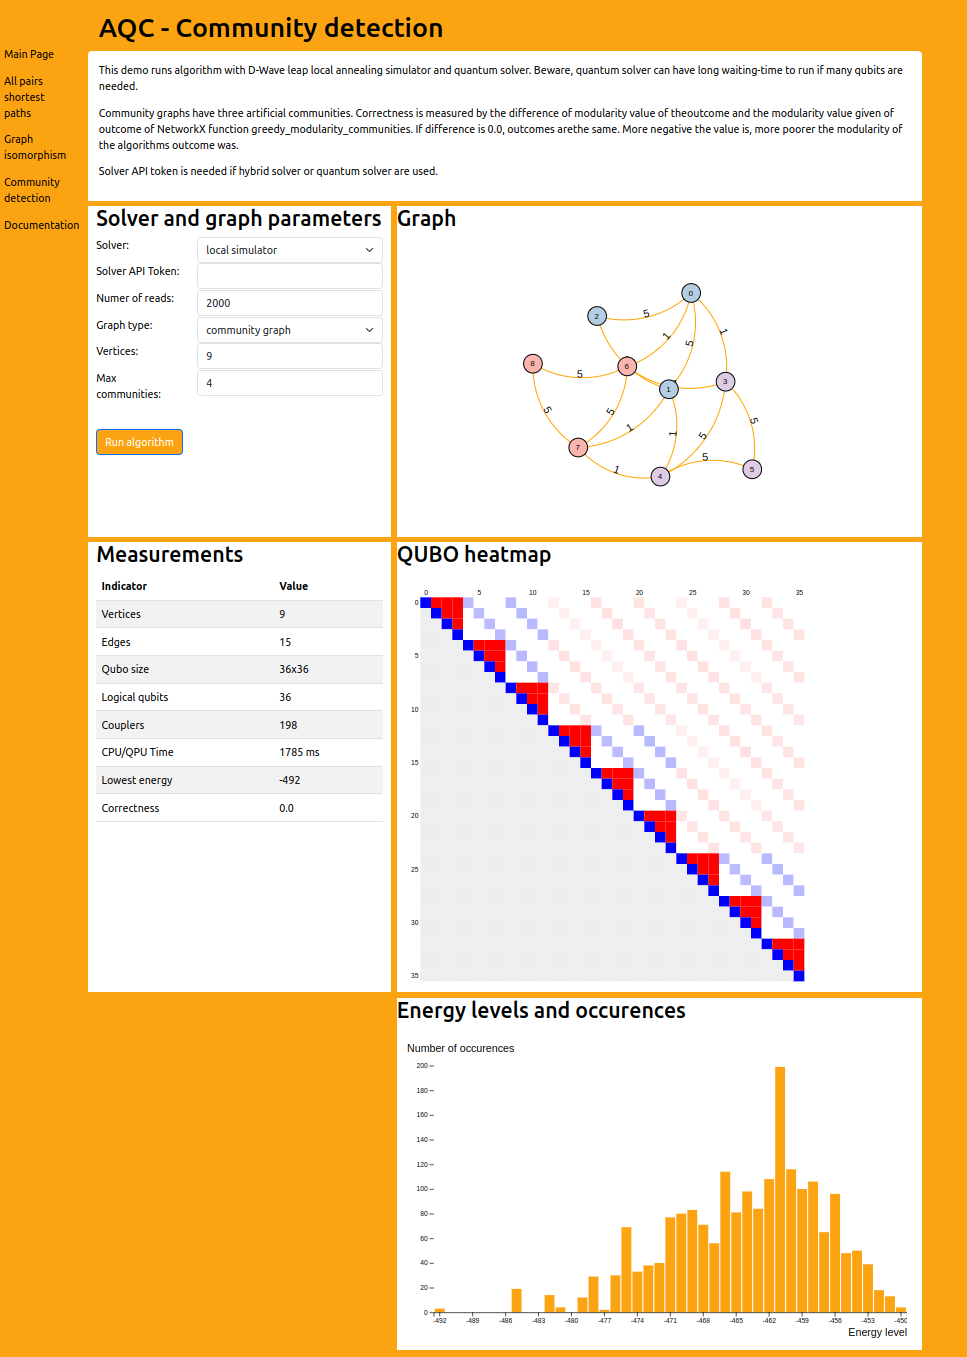
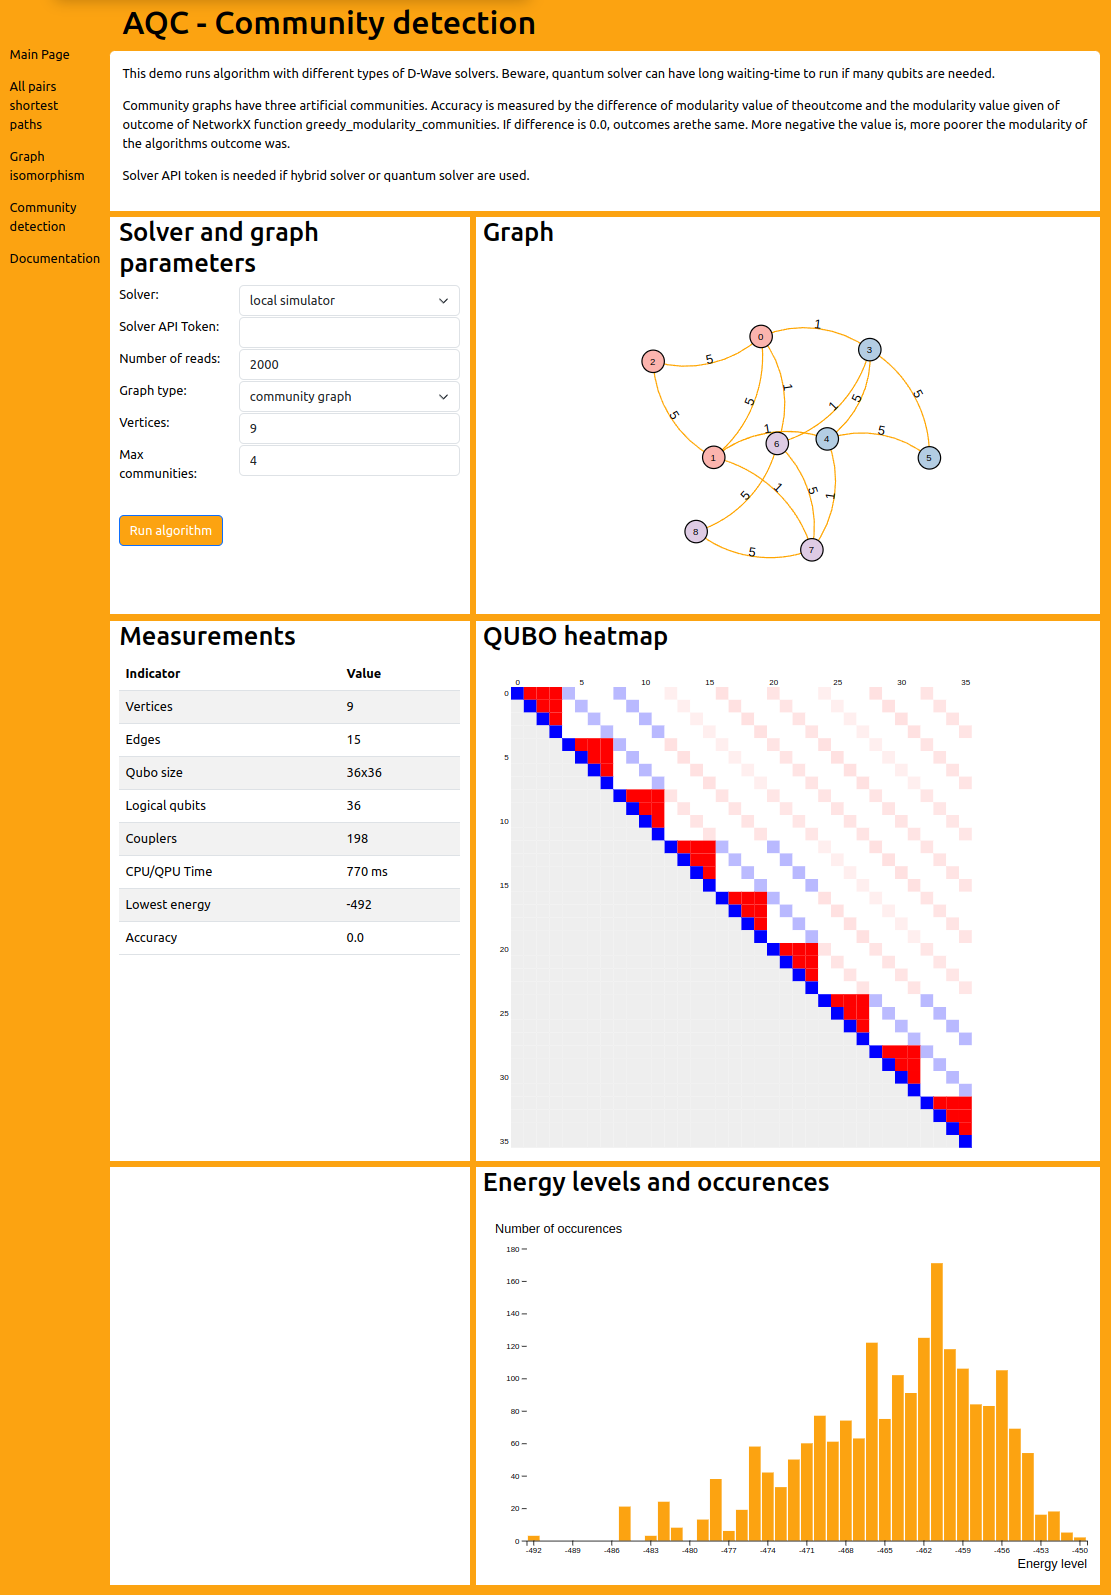
v0.8 - some UI fine tuning

diff --git a/templates/docs.html b/templates/docs.html
@@ -30,13 +30,13 @@
           </div>
           <div class="row m-0">
             <div class="col-sm-9 text-box rounded-top p-3">
-              <p>This demo presents algorithms for solving certain graph problems using quantum annealer computer. Each problems are converted to QUBO which is then solved with three different type of D-Wave solvers: local simulator, quantum solver and hybrid solver. </p>
+              <p>This demo presents algorithms for solving certain graph problems using quantum annealer computer. Each problem is converted to QUBO which is then solved with three different type of D-Wave solvers: local simulator, quantum solver and hybrid solver. </p>
               <h2>Graph problems</h2>
               <ul>
                 <li>In all pairs shortest path problem task is to find path with minimum sum of weights for every 
                   pair of vertices in graph.</li>
-                <li>Graph isomrphism problem answers to the qustion are two graphs isomorphic. Two graphs are isomorphic if they have same
-                  structure, so that vertices from one graph can be mapped to vertices of the other graph so that
+                <li>Graph isomorphism problem answers to the question are two graphs isomorphic. Two graphs are isomorphic if they have same
+                  structure, meaning that vertices from one graph can be mapped to vertices of the other graph so that
                   vertices have the same connectivity.</li>
                   <li>Community detection algorithm identifies communities from graphs, so that edges between vertices in the same community would be maximised and edges between vertices in different communities would be minimised.</li>
               </ul>
@@ -44,55 +44,43 @@
               <p>Performance can be measured with variable types of graphs:</p>
               <ul>
                 <li>
-                  Path graph: graph that can be drawn so that all of its
-                  vertices and edges lie on a single straight line
+                  Path graph: a graph that can be drawn so that all of its vertices and edges lie on a single straight line.
                 </li>
                 <li>
-                  Star graph: graph that have n-1 edges from single vertex to
-                  all other vertices/li>
+                  Star graph: a graph that has n-1 edges from a single vertex to all other vertices.
                 </li>
                 <li>
-                  Cycle graph: graph in which all vertices form single cycle.
+                  Cycle graph: a graph in which all vertices and edges form a single cycle.
                 </li>
-                <li>Complete graph: graph having all possible edges</li>
+                <li>Complete graph: a graph having all possible edges.</li>
                 <li>
-                  Tree graph: graph in which any two vertices are connected by
-                  exactly one path (here balanced binary tree is used).
-                </li>
-                <li>
-                  Graph with single cycle: graph in which part of the vertices
-                  and edges form a single cycle (here balanced binary tree with
-                  an edge from last leaf to the index vertex is used).
+                  Tree graph: a graph in which any two vertices are connected by exactly one path (here balanced binary tree is used).
                 </li>
                 <li>
-                  Graph with multiple cycles: graph having multiple cycles (here
-                  balanced binary tree with with edges from every second leaf to
-                  the index vertex is used)./li>
+                  Graph with single cycle: a graph in which part of the vertices and edges form a single cycle (here balanced binary tree with an additional edge from the last leaf to the index vertex is used).
                 </li>
                 <li>
-                  Bipartite graph: graph which vertices can be divided in two
-                  sets so that all edges are between these two sets (here
-                  vertices are divided to even and odd vertices so that there
-                  are 2-4 edges from every even vertex to odd vertices).
+                  Graph with multiple cycles: a graph having multiple cycles (here balanced binary tree with with additional edges from every second leaf to the index vertex is used).
                 </li>
                 <li>
-                  Wheel graph: graph formed by connecting one vertex to all
-                  other vertices which together form a cycle.
+                  Bipartite graph: a graph in which vertices can be divided in two sets so that all edges are between these two sets (here vertices are divided into even and odd vertices so that there are 2-4 edges from every even vertex to odd vertices).
                 </li>
                 <li>
-                  Random graph: Random Erdos-Renyi (binomial) graph is
-                  constructed by NetworkX gnp_random_graph function with
-                  probability for edge creation 0.3 and seed 42. Each edge has
-                  random weight 1...10.
+                  Wheel graph: a graph formed by connecting one vertex to all other vertices which together form a cycle.
                 </li>
                 <li>
-                  Community graph: Vertices are divided to three (almost) equal
-                  size groups. Every group is itself a complete subgraph having
-                  weight of 5 edges. Two vertices from each group are connected
-                  (weight of 1) to two vertices in all other groups.
+                  Random graph: Random Erdos-Renyi (binomial) graph is constructed by NetworkX gnp_random_graph function with probability for edge creation 0.3 and seed 42. Each edge has random weight 1...10.
+                </li>
+                <li>
+                  Community graph: Vertices are divided into three (almost) equal-size groups. Every group is itself a complete subgraph in which each edge has a weight of 5. Two vertices from each group are connected (weight of 1) to two vertices in all other groups.  
                 </li>
               </ul>
               <p>For each of these graph types different size of graphs can be selected.</p>
+              <h2>D-wave documentation</h2>
+              <ul>
+                <li>D-wave Leap: <a href="https://docs.dwavesys.com/docs/latest/guides_leap.html">https://docs.dwavesys.com/docs/latest/guides_leap.html</a></li>
+                <li>D-wave solvers: <a href="https://docs.dwavesys.com/docs/latest/guides_solvers.html">https://docs.dwavesys.com/docs/latest/guides_solvers.html</a></li>
+              </ul>
               <br /><br /><br />
             </div>
           </div>

diff --git a/templates/algorithm.html b/templates/algorithm.html
@@ -35,14 +35,11 @@
           <div class="row m-0">
             <div class="col-sm-11 text-box rounded-top p-3">
               <p>
-                This demo runs algorithm with D-Wave leap local annealing
-                simulator and quantum solver. Beware, quantum solver can have
-                long waiting-time to run if many qubits are needed.
+                This demo runs algorithm with different types of D-Wave solvers. Beware, quantum solver can have long waiting-time to run if many qubits are needed.
               </p>
               <p>{{ correctness}}</p>
               <p>
-                Solver API token is needed if hybrid solver or quantum solver
-                are used.
+                Solver API token is needed if hybrid solver or quantum solver are used.
               </p>
             </div>
           </div>
@@ -244,7 +241,7 @@
                   {% endif %} 
                   {% if result.success %}
                   <tr>
-                    <td>Correctness</td>
+                    <td>Accuracy</td>
                     <td>{{result.success}}</td>
                   </tr>
                   {% endif %} 

diff --git a/templates/index.html b/templates/index.html
@@ -40,7 +40,7 @@
                 Solver API token is needed if hybrid solver or quantum solver
                 are used.
               </p>
-              <p>Version 0.7</p>
+              <p>Version 0.8</p>
               <br /><br /><br />
             </div>
           </div>

diff --git a/static/styles.css b/static/styles.css
@@ -5,7 +5,7 @@
 
 .xborder {
   padding-left: 0.5rem;
-  margin-left: 1.5rem;
+  margin-left: 0rem;
   padding-right: 0;
 }
 

diff --git a/qcdemo/algorithms/cd.py b/qcdemo/algorithms/cd.py
@@ -18,7 +18,7 @@ solvers = ['local simulator', 'quantum solver', 'cloud hybrid solver']
 def index(request):
     resp = {}
     resp['algorithm'] = 'Community detection'
-    resp['correctness'] = 'Community graphs have three artificial communities. Correctness is measured by the difference of modularity value of the'\
+    resp['correctness'] = 'Community graphs have three artificial communities. Accuracy is measured by the difference of modularity value of the'\
          'outcome and the modularity value given of outcome of NetworkX function greedy_modularity_communities. If difference is 0.0, outcomes are'\
          'the same. More negative the value is, more poorer the modularity of the algorithms outcome was.'
     resp['algorithms'] = algorithms
@@ -56,7 +56,6 @@ def index(request):
         Q = create_qubo_cd(G, resp['communities'])
         bqm = create_bqm_gi(Q, G, resp['communities'])
         result = basic_stats(G,Q, bqm)
-        resp['qdata'] = {'data': Q_to_json(Q.tolist()), 'size':len(Q)}
 
         # Solve
         try:
@@ -67,6 +66,7 @@ def index(request):
             return render(request, 'algorithm.html', resp) 
 
         # Gather rest of results
+        resp['qdata'] = {'data': Q_to_json(Q.tolist()), 'size':len(Q)}
         result['energy'] = int(sampleset.first.energy)
         result['success'] = check_result_cd(G,sampleset,resp['communities'])
         resp['result'] = result

diff --git a/qcdemo/algorithms/gi.py b/qcdemo/algorithms/gi.py
@@ -15,7 +15,7 @@ def index(request):
     resp = {}
     resp['algorithm'] = 'Graph isomorphism'
     resp['correctness'] = 'Algorithm is tested with generated graph and the same graph having its vertices randomly permutated. '\
-    'When working correctly, results should be isomorphic. Correctness is measured by how much observed '\
+    'When working correctly, results should be isomorphic. Accuracy is measured by how much observed '\
     'energy level differed from the correct energy level. So, for correct outcome this is 0 and more positive '\
     'this number is, more far away achieved energy level is from the correct energy level.'
     resp['algorithms'] = algorithms
@@ -47,7 +47,6 @@ def index(request):
         bqm = create_bqm_gi(Q, G1)
         result = basic_stats(G1,Q, bqm)
         result['exp_energy'] = -len(G1.edges)
-        resp['qdata'] = {'data': Q_to_json(Q.tolist()), 'size':len(Q)}
 
         # Solve
         try:
@@ -58,6 +57,7 @@ def index(request):
             return render(request, 'algorithm.html', resp) 
         
         # Gather rest of results    
+        resp['qdata'] = {'data': Q_to_json(Q.tolist()), 'size':len(Q)}
         result['energy'] = int(sampleset.first.energy)
         result['success'] = check_result_gi(sampleset, result['exp_energy'])
         resp['result'] = result

diff --git a/qcdemo/algorithms/apsp.py b/qcdemo/algorithms/apsp.py
@@ -16,7 +16,7 @@ solvers = ['local simulator', 'quantum solver']
 def index(request):
     resp = {}
     resp['algorithm'] = 'All pairs of shortest path'
-    resp['correctness'] = 'Correctness is measured by counting what proportion of all shortest paths algorithm identified with correct sum of weights.'
+    resp['correctness'] = 'Accuracy is measured by counting what proportion of all shortest paths algorithm identified with correct sum of weights.'
     resp['algorithms'] = algorithms
     resp['solvers'] = solvers
     resp['graph_types'] = graph_types
@@ -45,7 +45,6 @@ def index(request):
         Q = create_qubo_apsp(G)
         bqm = create_bqm_apsp(Q, G)
         result = basic_stats(G,Q, bqm)
-        resp['qdata'] = {'data': Q_to_json(Q.tolist()), 'size':len(Q)}
         
         # Solve
         try:
@@ -56,6 +55,7 @@ def index(request):
             return render(request, 'algorithm.html', resp) 
 
         # Gather rest of results    
+        resp['qdata'] = {'data': Q_to_json(Q.tolist()), 'size':len(Q)}
         result['success'] = check_result_apsp(G,sampleset)
         result['paths'] = []
         for k,v in result_paths(G,sampleset).items():

diff --git a/qcdemo/algorithms/template.py b/qcdemo/algorithms/template.py
@@ -44,7 +44,6 @@ def index(request):
         Q = create_qubo(G)
         bqm = create_bqm(Q, G)
         result = basic_stats(G,Q, bqm)
-        resp['qdata'] = {'data': Q_to_json(Q.tolist()), 'size':len(Q)}
 
         # Solve
         try:
@@ -55,6 +54,7 @@ def index(request):
             return render(request, 'algorithm.html', resp) 
 
         # Gather rest of results    
+        resp['qdata'] = {'data': Q_to_json(Q.tolist()), 'size':len(Q)}
         result['success'] = check_result(G,sampleset)
         resp['result'] = result
 

diff --git a/README.md b/README.md
@@ -16,13 +16,13 @@ python manage.py runserver
 ### Build
 
 ```
-sudo docker build -t aqc_demo:v0.7 .
+sudo docker build -t aqc_demo:v0.8 .
 ```
 
 ### Run
 
 ```
-sudo docker run -p 8000:8000 aqc_demo:v0.7
+sudo docker run -p 8000:8000 aqc_demo:v0.8
 ```
 
 After this command application can be accesses from address http://127.0.0.1:8000/
@@ -32,8 +32,8 @@ After this command application can be accesses from address http://127.0.0.1:800
 https://hub.docker.com/r/vuorenkoski/aqc_demo
 
 ```
-sudo docker pull vuorenkoski/aqc_demo:v0.7
-sudo docker run -p 8000:8000 vuorenkoski/aqc_demo:v0.7
+sudo docker pull vuorenkoski/aqc_demo:v0.8
+sudo docker run -p 8000:8000 vuorenkoski/aqc_demo:v0.8
 ```
 
 ![screenshot](screenshot.png)
